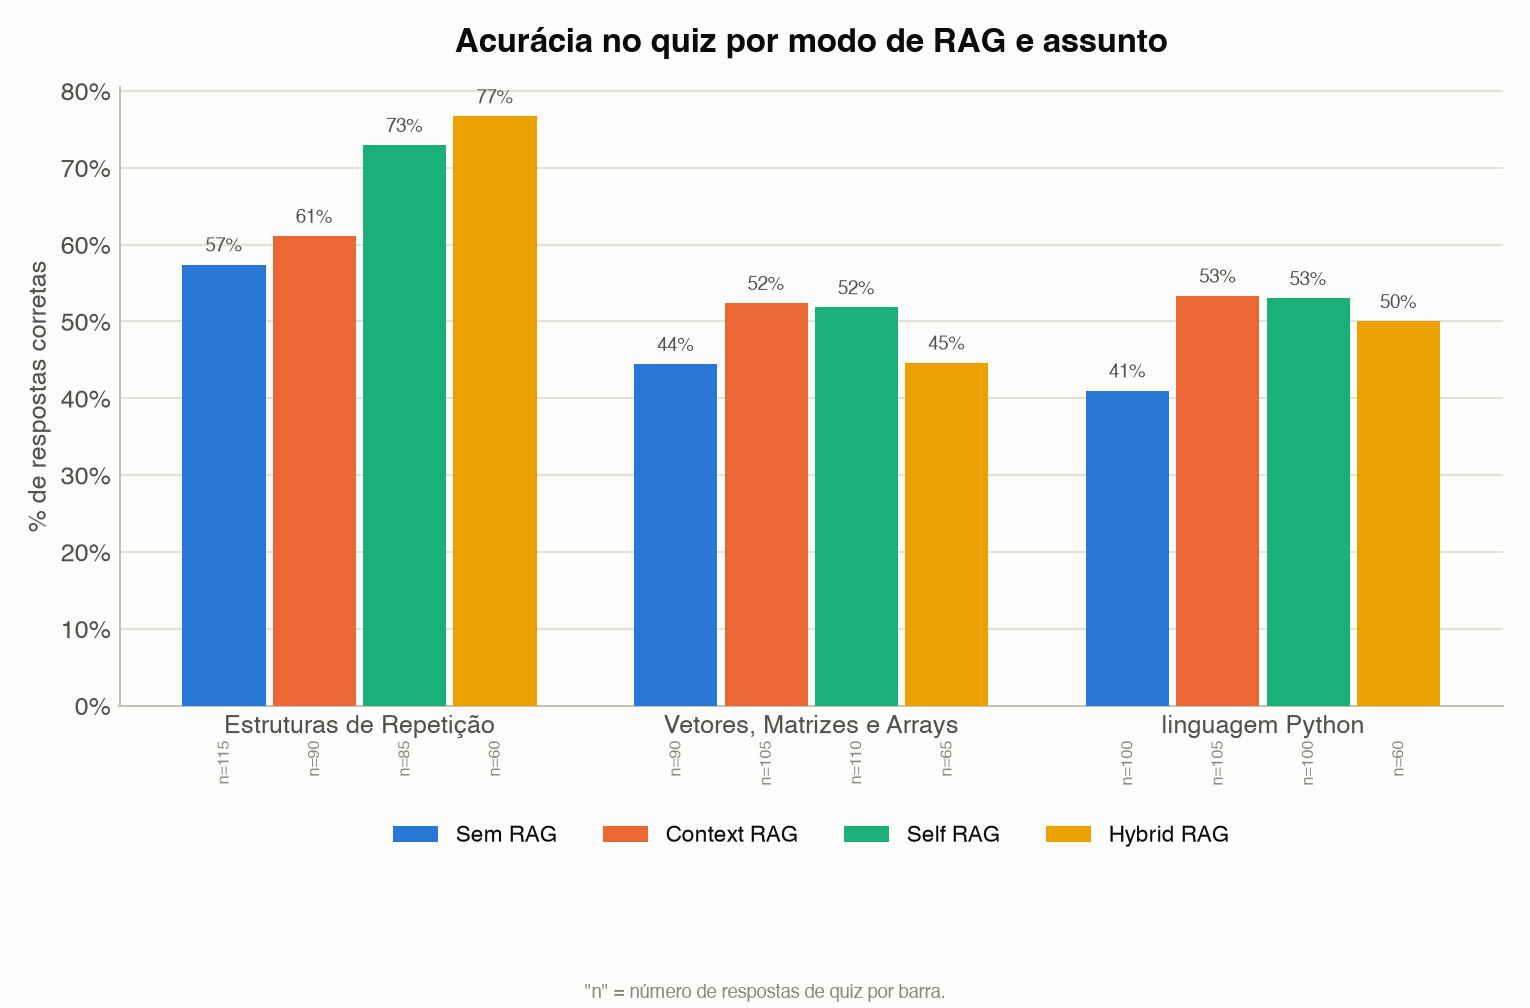
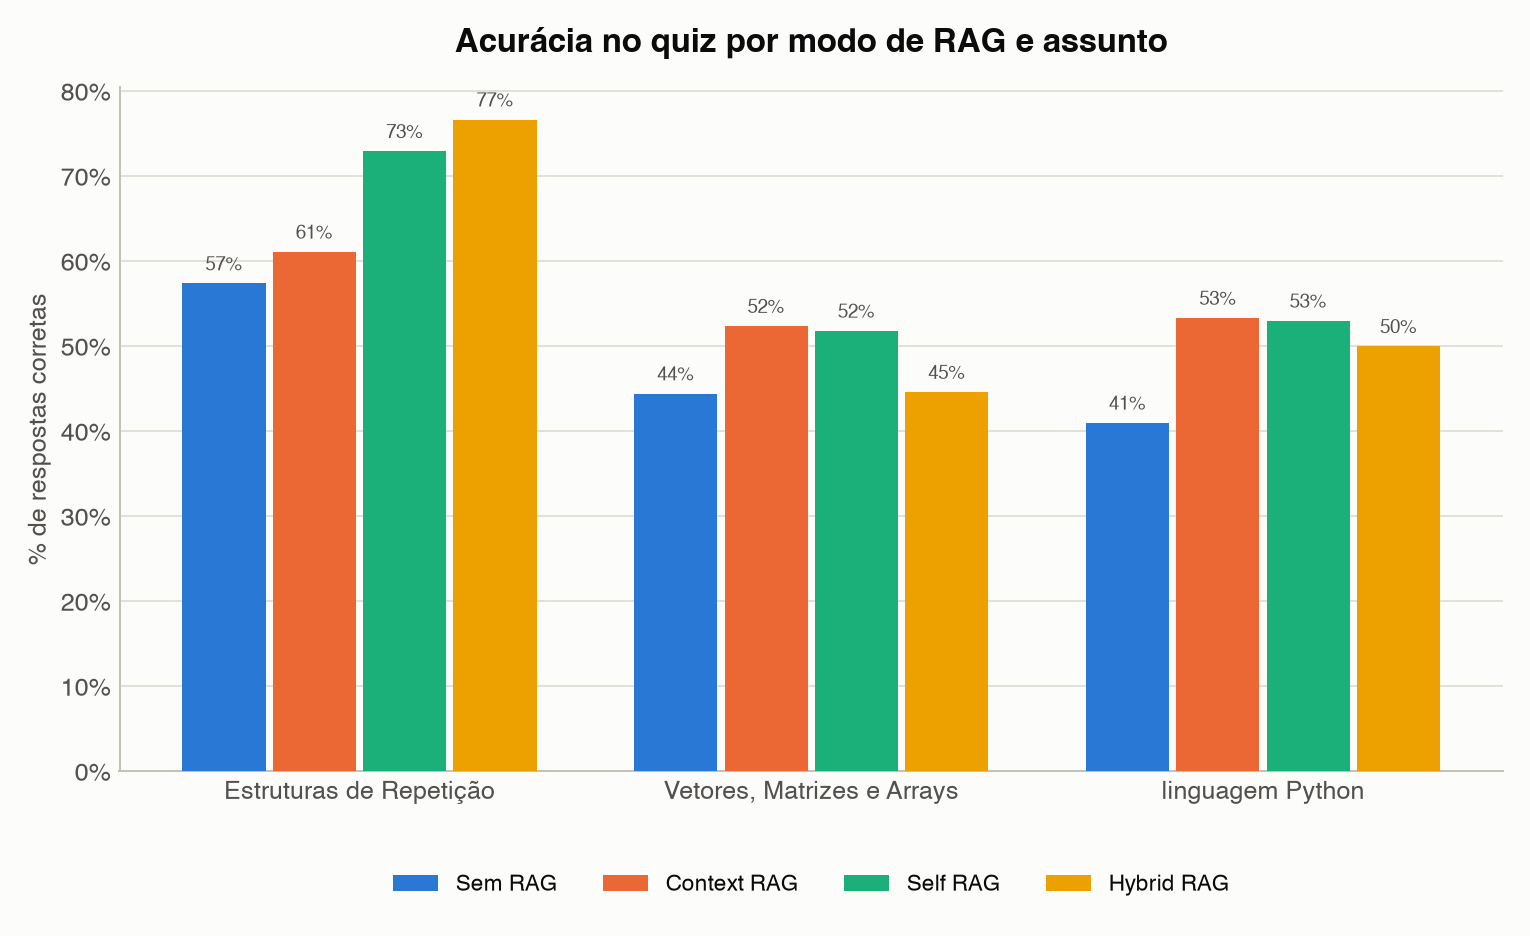
Drop n= labels from acuracia_por_rag_e_assunto
Unlike the per-day breakdown, sample sizes here only range 60-115 (no
fragile small-n bar), so the n= labels added clutter without changing
how the chart should be read. Kept on the per-day chart where n varies
15-130 and does matter.

diff --git a/scripts/generate_charts.py b/scripts/generate_charts.py
@@ -190,22 +190,21 @@ def main():
         fmt="{:.1f}%",
     )
 
-    # acurácia por rag x assunto
+    # acurácia por rag x assunto - amostras aqui variam pouco (60 a 115
+    # respostas por barra), sem barra "frágil" que precise de alerta de n,
+    # diferente do gráfico por dia abaixo - por isso não leva rótulo de n.
     subjects = sorted({q["subject"] for q in quiz_answers})
     acc_by_subject = {s: {} for s in subjects}
-    n_by_subject = {s: {} for s in subjects}
     for s in subjects:
         for mode in RAG_ORDER:
             qs = [q for q in quiz_answers if q["subject"] == s and q["rag_mode"] == mode]
             acc_by_subject[s][mode] = (100 * sum(q["is_correct"] for q in qs) / len(qs)) if qs else None
-            n_by_subject[s][mode] = len(qs)
     groups = {s: acc_by_subject[s] for s in subjects}
     grouped_bar(
         groups, RAG_ORDER, RAG_LABELS,
         "Acurácia no quiz por modo de RAG e assunto", "% de respostas corretas",
         CHARTS_DIR / "quiz" / "acuracia_por_rag_e_assunto.png",
-        group_labels=subjects, fmt="{:.0f}%", pct=True, n_counts=n_by_subject,
-        footnote="\"n\" = número de respostas de quiz por barra.",
+        group_labels=subjects, fmt="{:.0f}%", pct=True,
     )
 
     # acurácia por rag x dia - amostras por barra variam bastante (15 a 130
